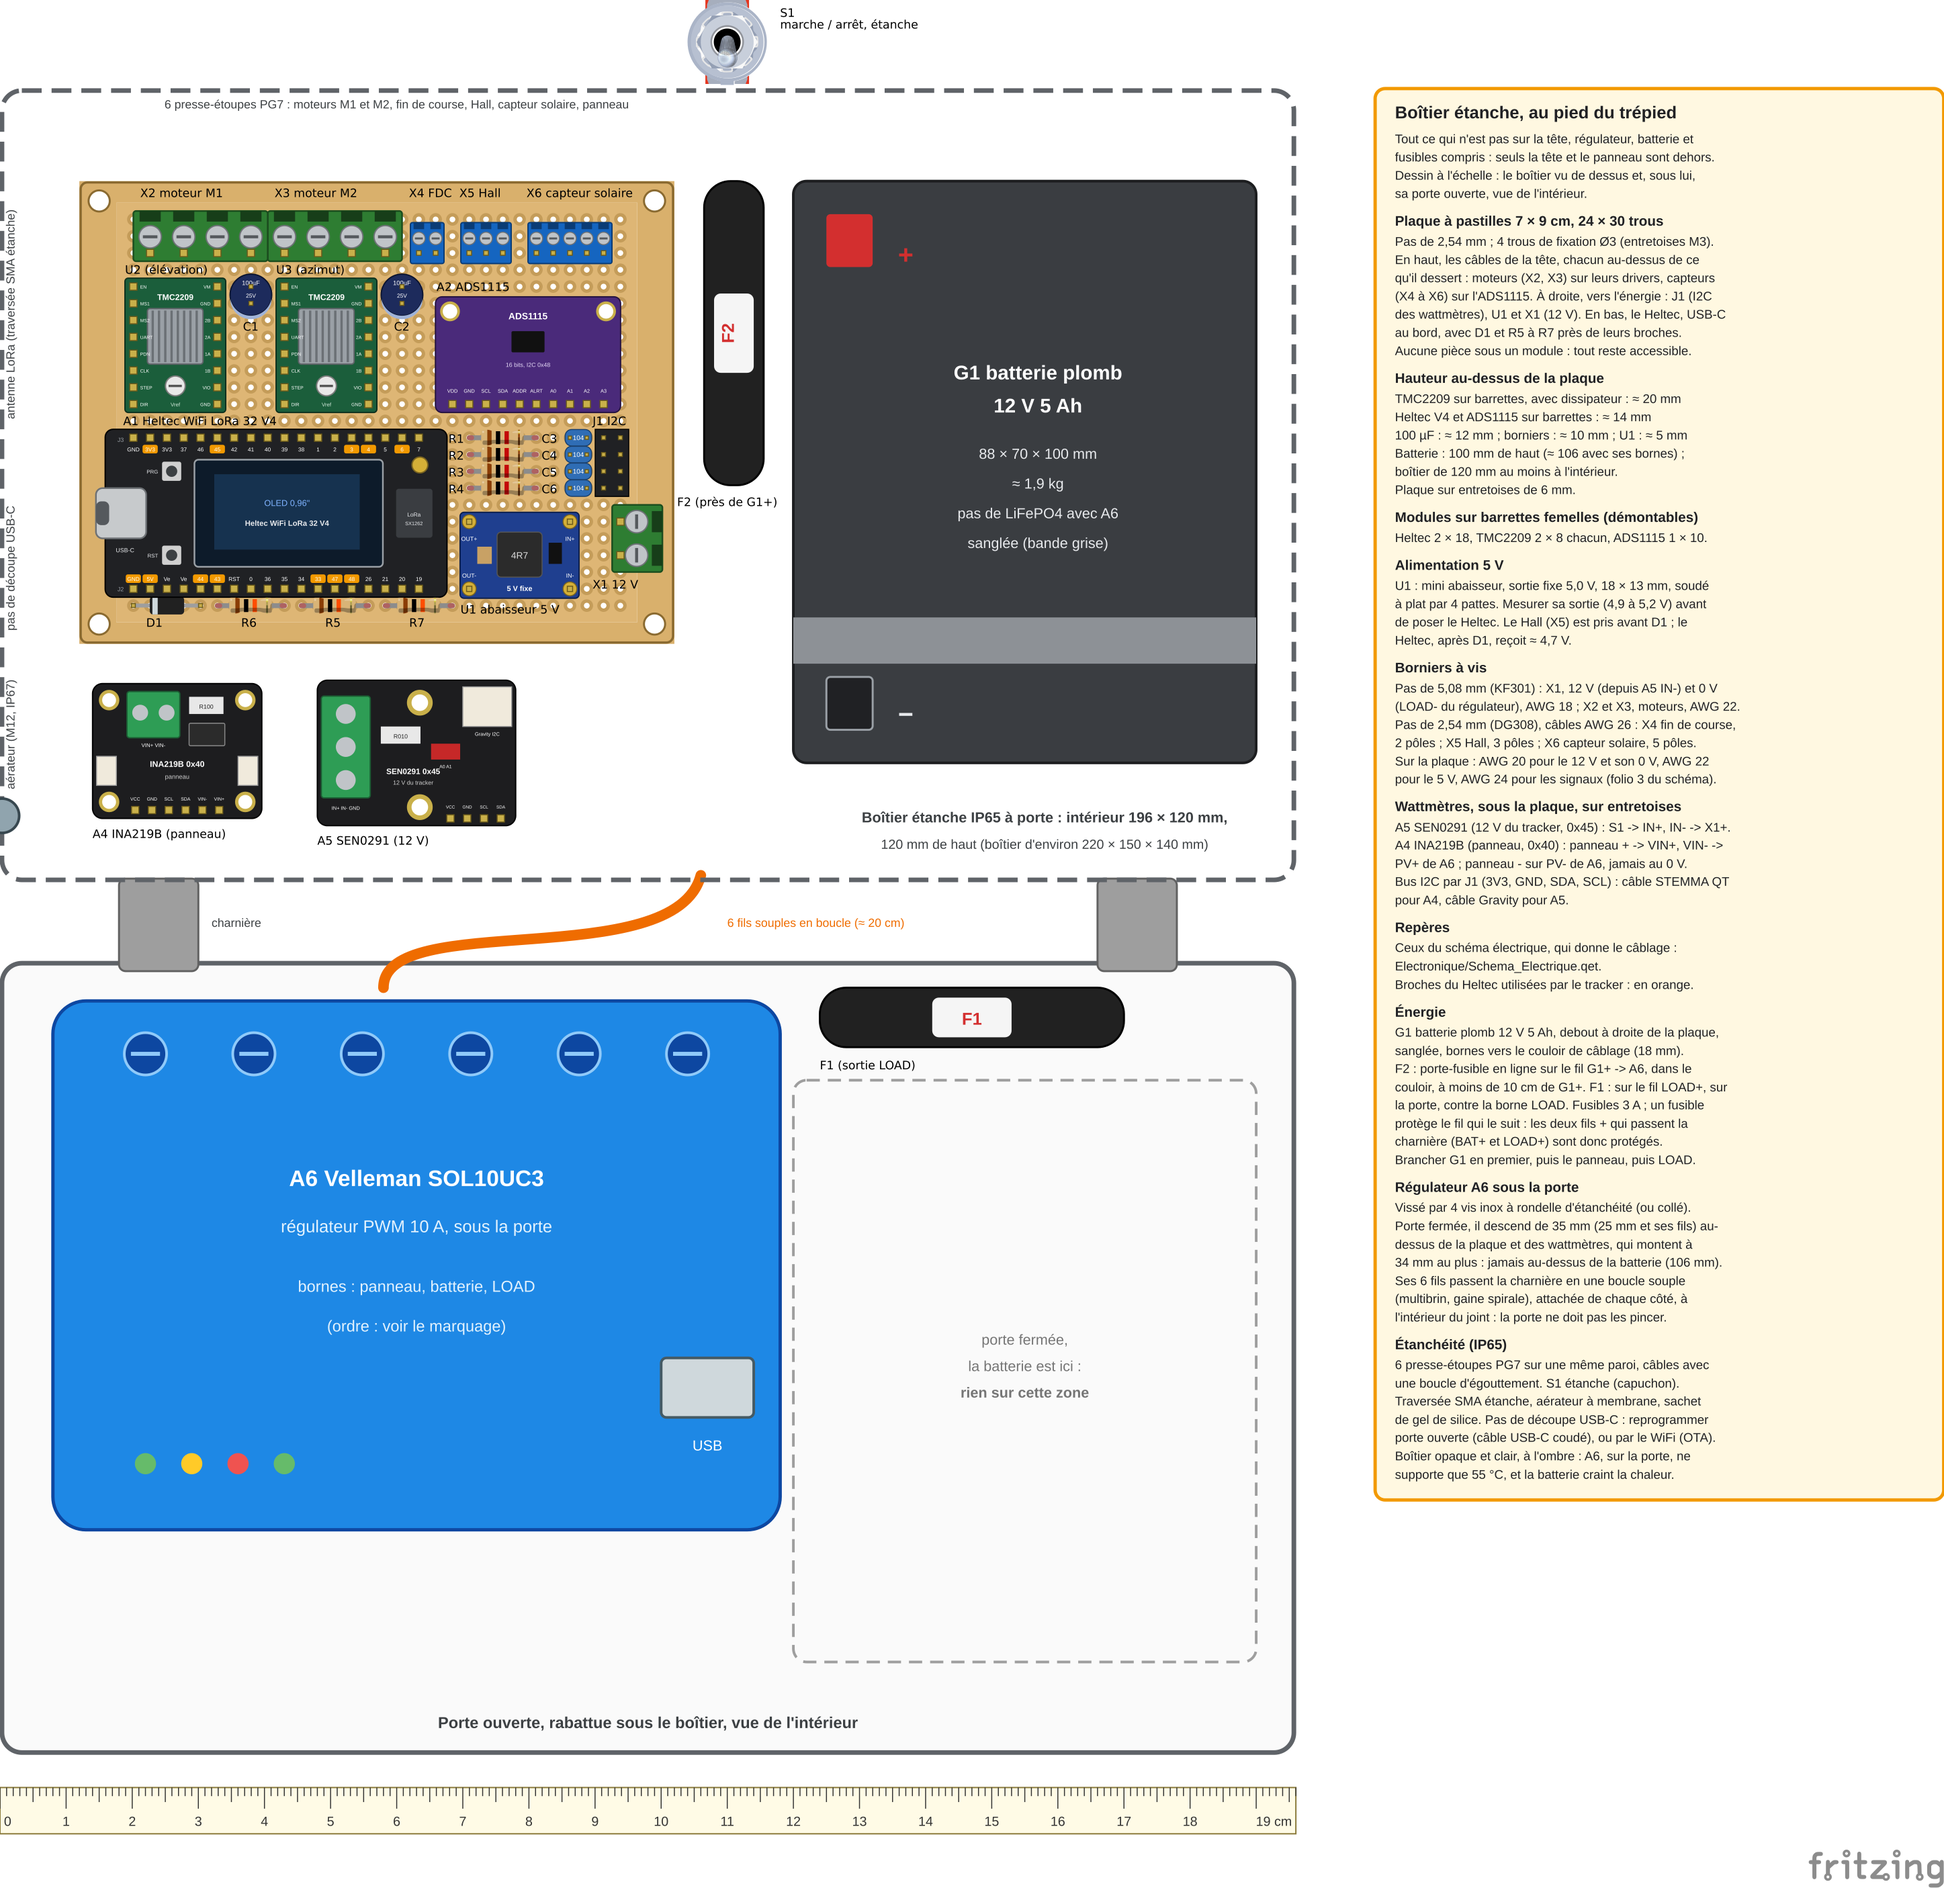
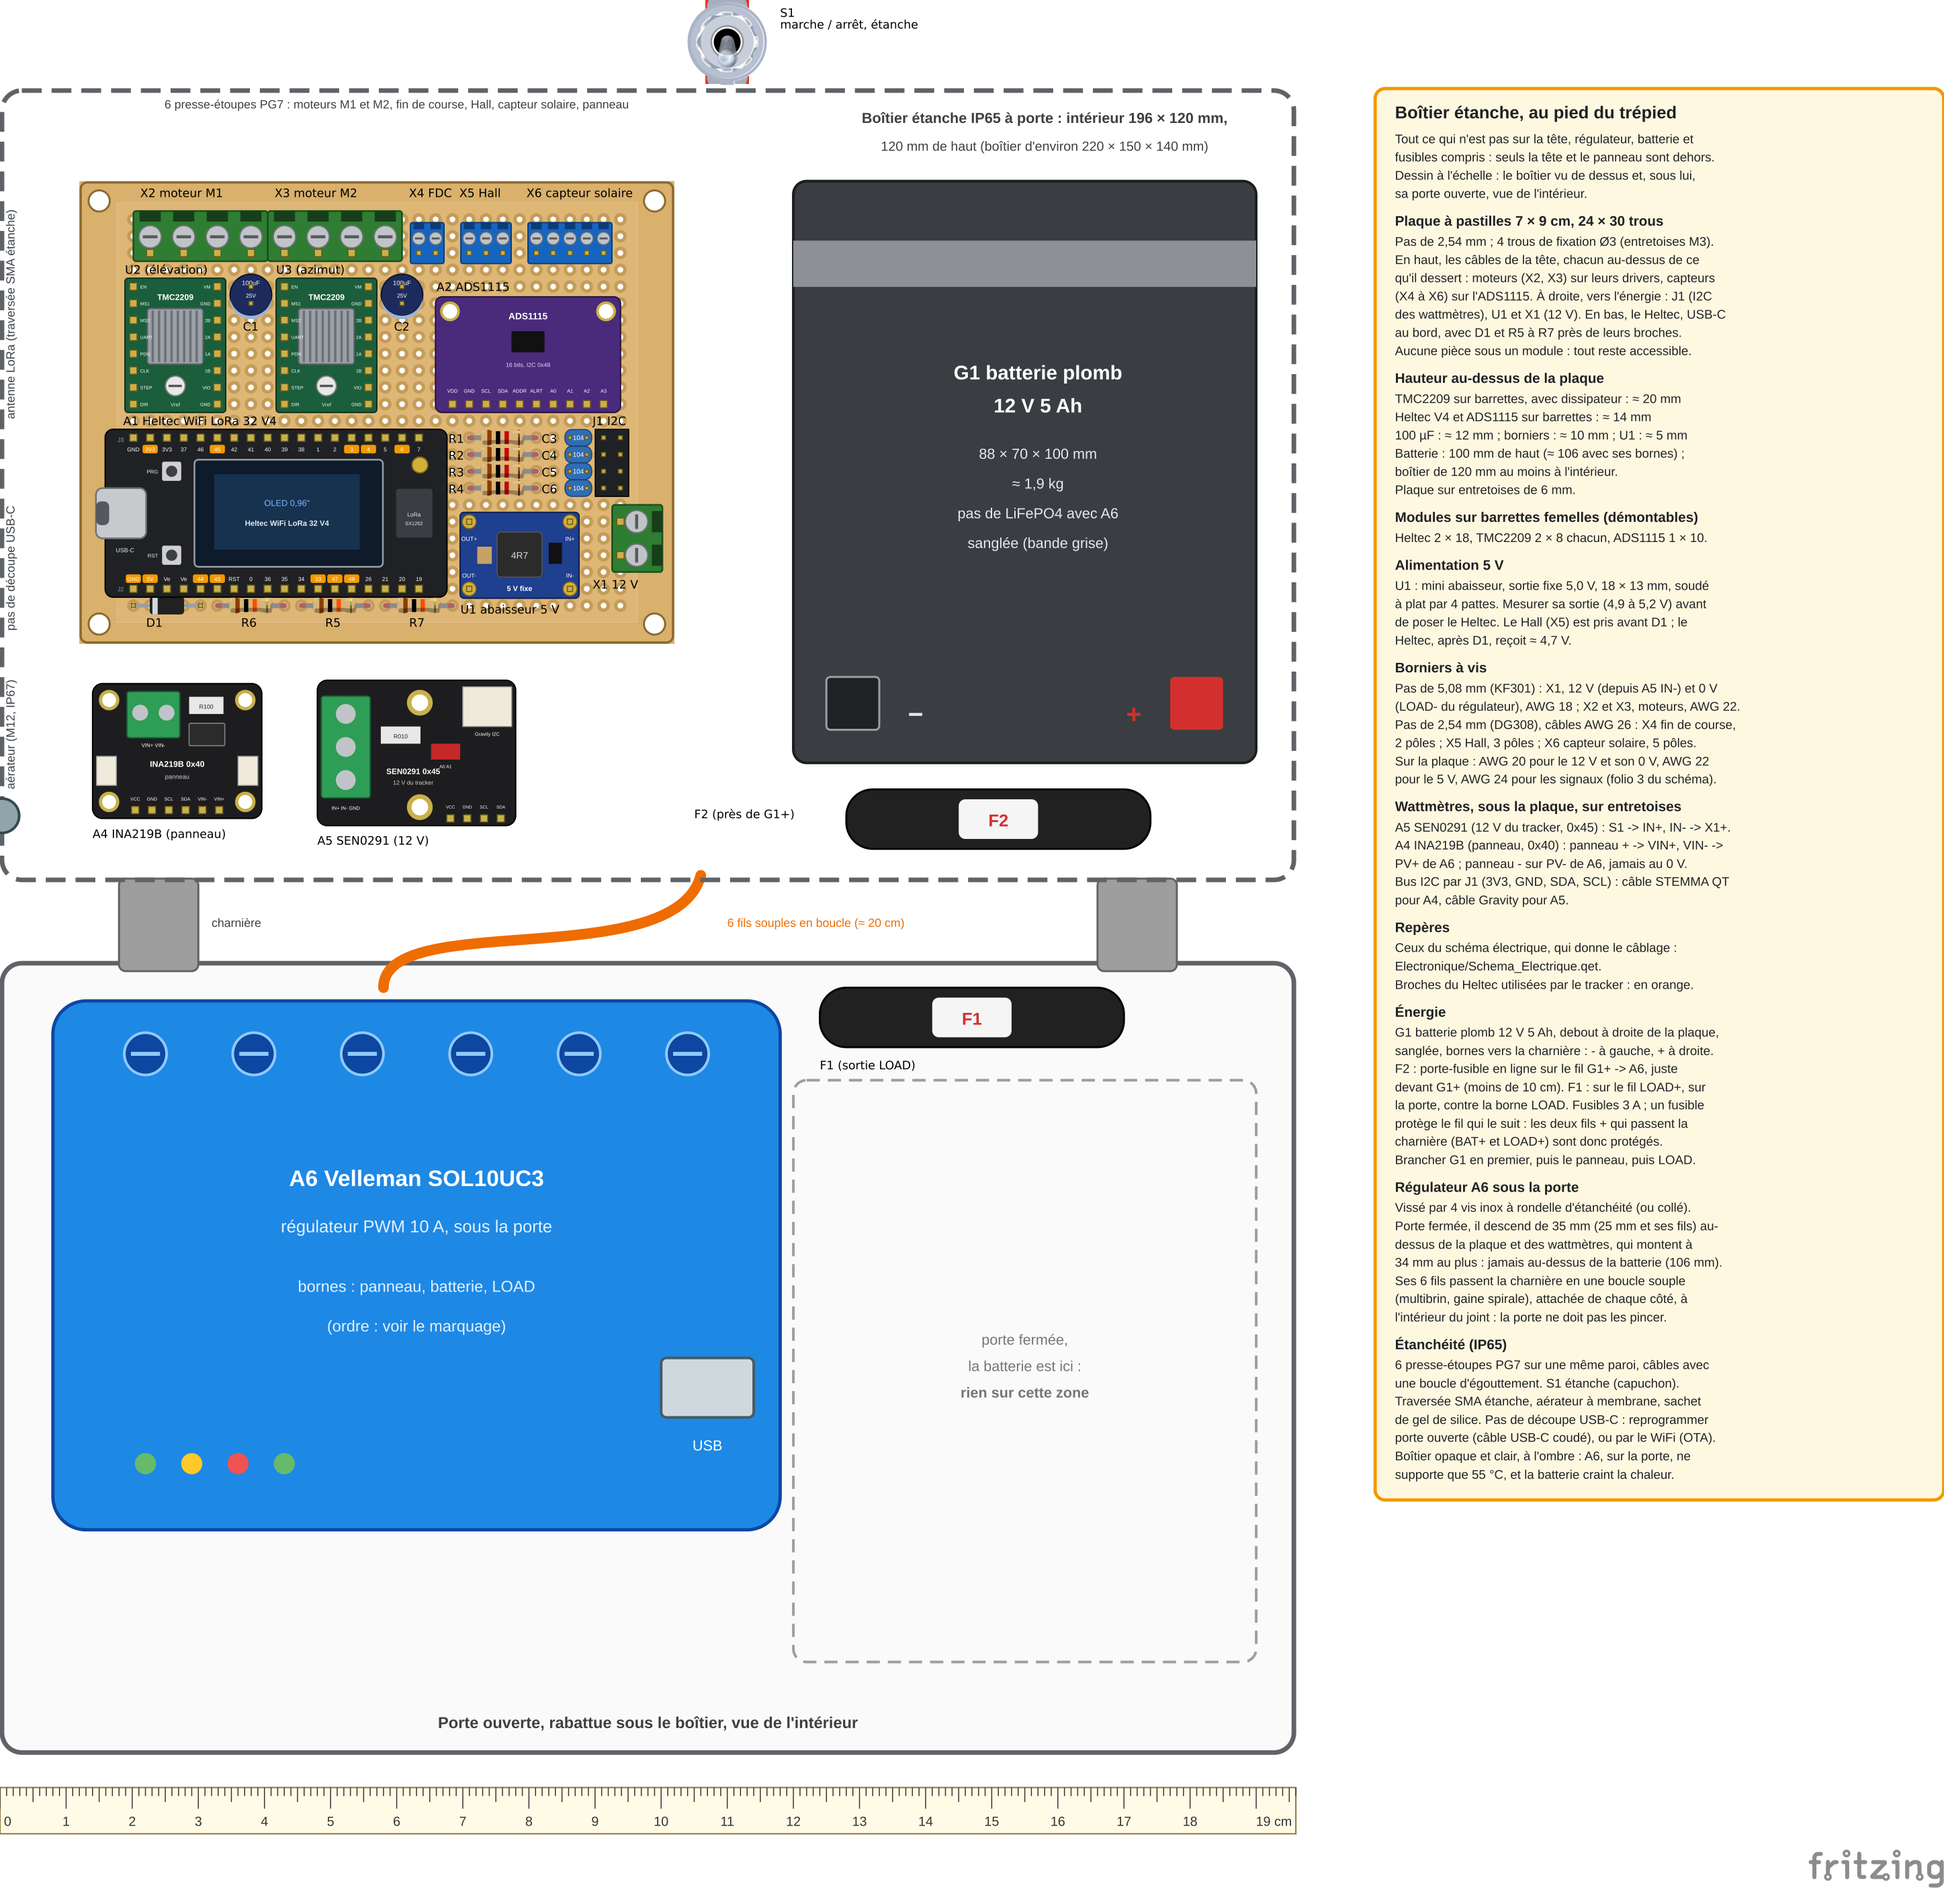
Batterie : bornes en bas (− à gauche, + à droite), F2 devant le +
- Implantation : les bornes de G1 sont le long du bas, côté charnière ;
  F2 passe sous la batterie, juste devant G1+ (moins de 10 cm de fil) ;
  le titre du boîtier remonte en haut à droite.
- README et cartouche mis à jour.

Claude-Session: https://claude.ai/code/session_016qGFaGRdDEyZRcESre1E3T

diff --git a/scripts/generate_implantation_fritzing.py b/scripts/generate_implantation_fritzing.py
@@ -282,13 +282,13 @@ def barrette_2x4():
 
 def batterie_plomb():
     """Batterie au plomb étanche 12 V 5 Ah vue de dessus, posée debout dans le dessin : 70 × 88 mm,
-    100 mm de haut (environ 106 mm avec ses bornes), bornes du côté gauche."""
+    100 mm de haut (environ 106 mm avec ses bornes), bornes le long du bas : − à gauche, + à droite."""
     l, h = 70.0, 88.0
     d = [f'<rect x="0" y="0" width="{l}" height="{h}" rx="2" fill="#3a3d41" stroke="#1c1d1f" stroke-width="0.4"/>',
-         '<rect x="0" y="66" width="70" height="7" fill="#8d9196"/>',
-         '<rect x="5" y="5" width="7" height="8" rx="0.6" fill="#d32f2f"/>',
-         '<rect x="5" y="75" width="7" height="8" rx="0.6" fill="#202124" stroke="#9aa0a6" stroke-width="0.3"/>',
-         txt(17, 12.5, "+", 4.0, "#d32f2f", "middle", True), txt(17, 82, "−", 4.0, "#e8eaed", "middle", True),
+         '<rect x="0" y="9" width="70" height="7" fill="#8d9196"/>',
+         '<rect x="5" y="75" width="8" height="8" rx="0.6" fill="#202124" stroke="#9aa0a6" stroke-width="0.3"/>',
+         '<rect x="57" y="75" width="8" height="8" rx="0.6" fill="#d32f2f"/>',
+         txt(18.5, 82, "−", 4.0, "#e8eaed", "middle", True), txt(51.5, 82, "+", 4.0, "#d32f2f", "middle", True),
          txt(37, 30, "G1 batterie plomb", 3.0, "#fff", "middle", True),
          txt(37, 35, "12 V 5 Ah", 3.0, "#fff", "middle", True),
          txt(37, 42, "88 × 70 × 100 mm", 2.2, "#e8eaed", "middle"),
@@ -506,9 +506,9 @@ def boitier(l, h):
     en haut, antenne, USB-C et aérateur à gauche, charnière de la porte en bas)."""
     d = [f'<rect x="0.3" y="0.3" width="{f(l - 0.6)}" height="{f(h - 0.6)}" rx="3" fill="none" stroke="#5f6368" '
          f'stroke-width="0.7" stroke-dasharray="3,1.5"/>',
-         txt(l - 38, h - 9.0, f"Boîtier étanche IP65 à porte : intérieur {l} × {h} mm,", 2.2, "#3c4043", "middle",
+         txt(l - 38, 5.2, f"Boîtier étanche IP65 à porte : intérieur {l} × {h} mm,", 2.2, "#3c4043", "middle",
              True),
-         txt(l - 38, h - 5.0, "120 mm de haut (boîtier d'environ 220 × 150 × 140 mm)", 2.0, "#3c4043", "middle"),
+         txt(l - 38, 9.4, "120 mm de haut (boîtier d'environ 220 × 150 × 140 mm)", 2.0, "#3c4043", "middle"),
          txt(60, 3.0, "6 presse-étoupes PG7 : moteurs M1 et M2, fin de course, Hall, capteur solaire, panneau",
              1.8, "#3c4043", "middle"),
          txt(2.2, 50, "antenne LoRa (traversée SMA étanche)", 1.8, "#3c4043", "start", rot=-90),
@@ -643,11 +643,12 @@ def main():
     x1 = bornier(2, droite=True)
     k.piece(x1, "X1 12 V", *sur_trou(x1, 29, 18), etiquette=(72.0, 56.6))
 
-    # énergie : batterie debout à droite de la plaque, bornes vers le couloir de câblage (18 mm)
-    # où passent les fils et F2 ; wattmètres sous la plaque ; interrupteur sur la paroi du haut
+    # énergie : batterie debout à droite de la plaque, bornes vers la charnière (− à gauche, + à
+    # droite), F2 juste devant son + ; couloir de câblage de 18 mm entre la plaque et la batterie ;
+    # wattmètres sous la plaque ; interrupteur sur la paroi du haut
     batterie = (120, 14, 190, 102)
     k.piece(batterie_plomb(), "G1 batterie", *dedans(batterie[0], batterie[1]))
-    k.piece(porte_fusible("F2", True), "F2 (près de G1+)", *dedans(106.5, 14), etiquette=dedans(102.4, 61.4))
+    k.piece(porte_fusible("F2", False), "F2 (près de G1+)", *dedans(128, 106), etiquette=dedans(105.0, 108.6))
     a4, a5 = ina219_adafruit(), sen0291()
     k.piece(a4, "A4 INA219B (panneau)", *dedans(14, 90), etiquette=dedans(14, 111.6))
     k.piece(a5, "A5 SEN0291 (12 V)", *dedans(48, 89.5), etiquette=dedans(48, 112.6))
@@ -724,9 +725,9 @@ def main():
         ("", 1.0, False),
         ("Énergie", 2.1, True),
         ("G1 batterie plomb 12 V 5 Ah, debout à droite de la plaque,", 1.9, False),
-        ("sanglée, bornes vers le couloir de câblage (18 mm).", 1.9, False),
-        ("F2 : porte-fusible en ligne sur le fil G1+ -> A6, dans le", 1.9, False),
-        ("couloir, à moins de 10 cm de G1+. F1 : sur le fil LOAD+, sur", 1.9, False),
+        ("sanglée, bornes vers la charnière : - à gauche, + à droite.", 1.9, False),
+        ("F2 : porte-fusible en ligne sur le fil G1+ -> A6, juste", 1.9, False),
+        ("devant G1+ (moins de 10 cm). F1 : sur le fil LOAD+, sur", 1.9, False),
         ("la porte, contre la borne LOAD. Fusibles 3 A ; un fusible", 1.9, False),
         ("protège le fil qui le suit : les deux fils + qui passent la", 1.9, False),
         ("charnière (BAT+ et LOAD+) sont donc protégés.", 1.9, False),

diff --git a/README.md b/README.md
@@ -1210,11 +1210,12 @@ Fritzing (gratuit), vue « Platine d'essai ». Le fichier est généré par
 * **Wattmètres A4 et A5 sous la plaque**, sur entretoises (M2,5 pour l'INA219B, M3 pour le
   SEN0291). Leur bus I²C arrive par la **barrette mâle J1** (2 × 4 broches : 3V3, GND, SDA, SCL
   pour chacun).
-* **Batterie G1** debout à droite de la plaque, ses bornes tournées vers elle, tenue par une
-  sangle (ou des équerres) : 1,9 kg ne doivent pas se promener dans le boîtier.
-* **Couloir de câblage** de 18 mm entre la plaque et la batterie : on y range les fils et le
-  fusible en ligne **F2**, entre le + de la batterie et le régulateur, à moins de 10 cm de la
-  batterie.
+* **Batterie G1** debout à droite de la plaque, tenue par une sangle (ou des équerres) : 1,9 kg
+  ne doivent pas se promener dans le boîtier. Ses bornes sont du côté de la charnière, le −
+  à gauche et le + à droite : ses deux fils vont droit à la boucle de la charnière.
+* Le fusible en ligne **F2**, entre le + de la batterie et le régulateur, est juste devant le
+  + : moins de 10 cm de fil entre eux.
+* **Couloir de câblage** de 18 mm entre la plaque et la batterie : on y range les fils.
 * **Régulateur A6 vissé sous la porte**, comme sur les stations solaires de terrain : il ne
   prend plus de place au fond du boîtier.
   * **Fixation** : 4 vis inox dans ses trous de fixation, avec une **rondelle d'étanchéité**
